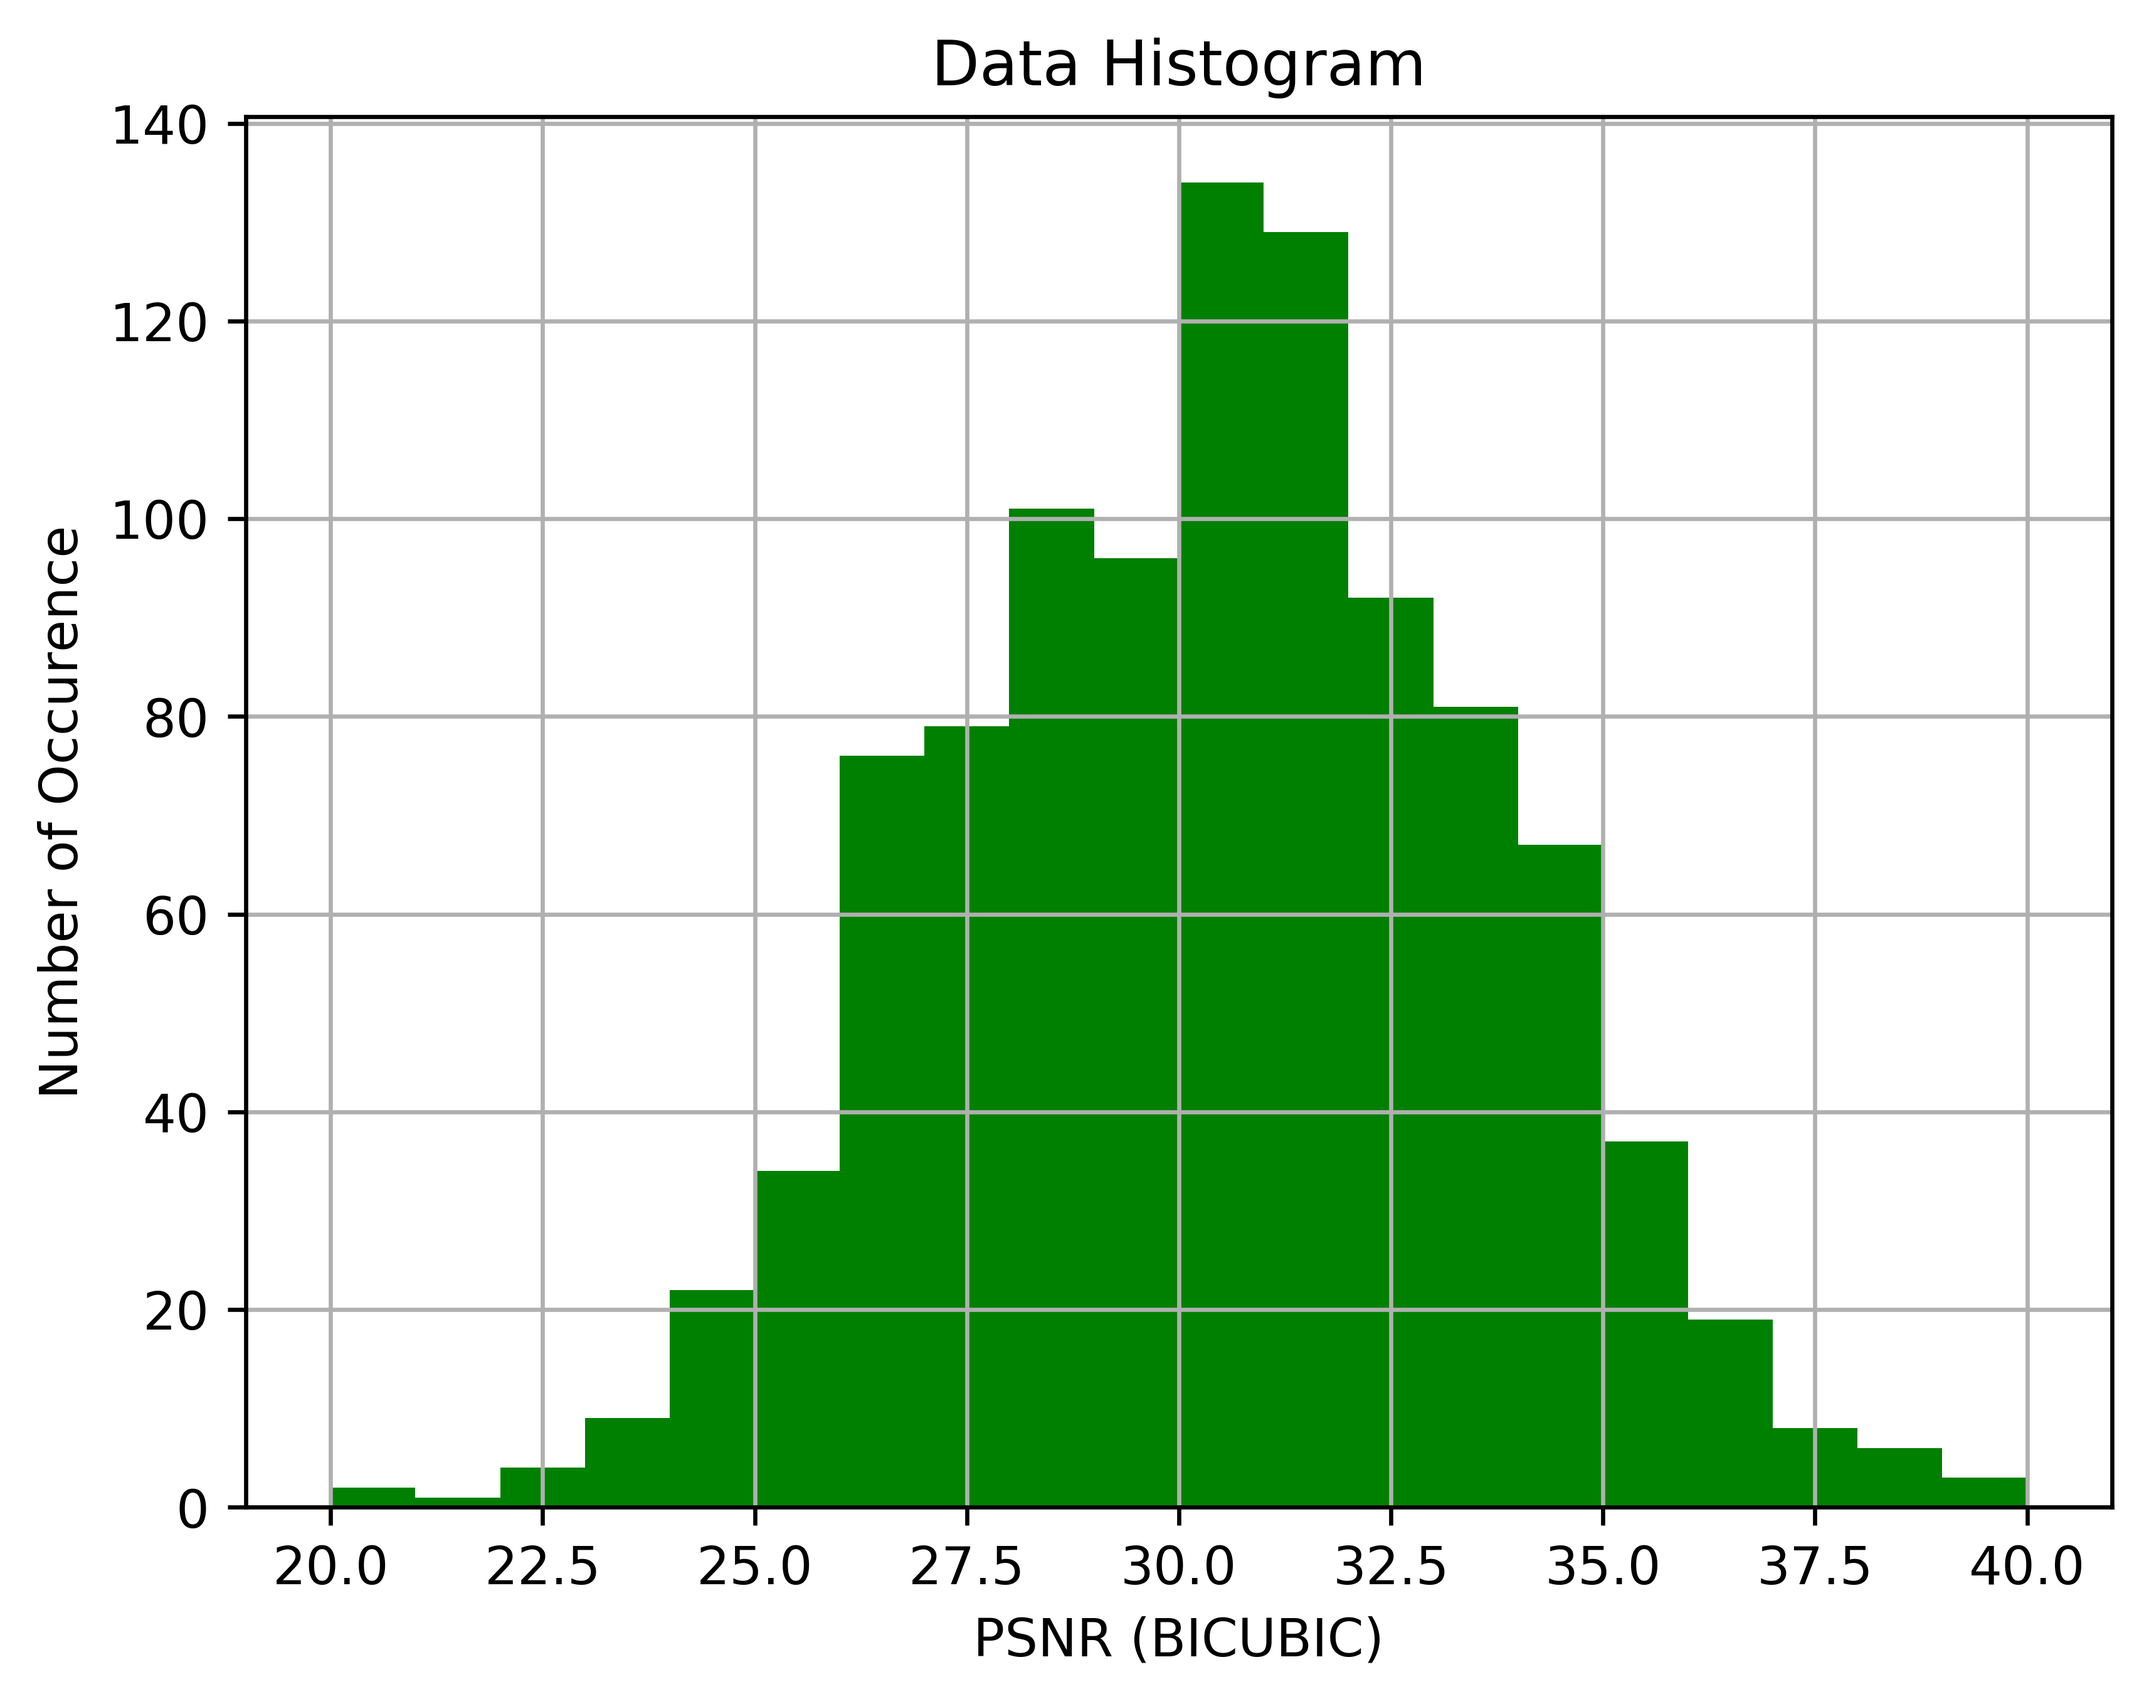
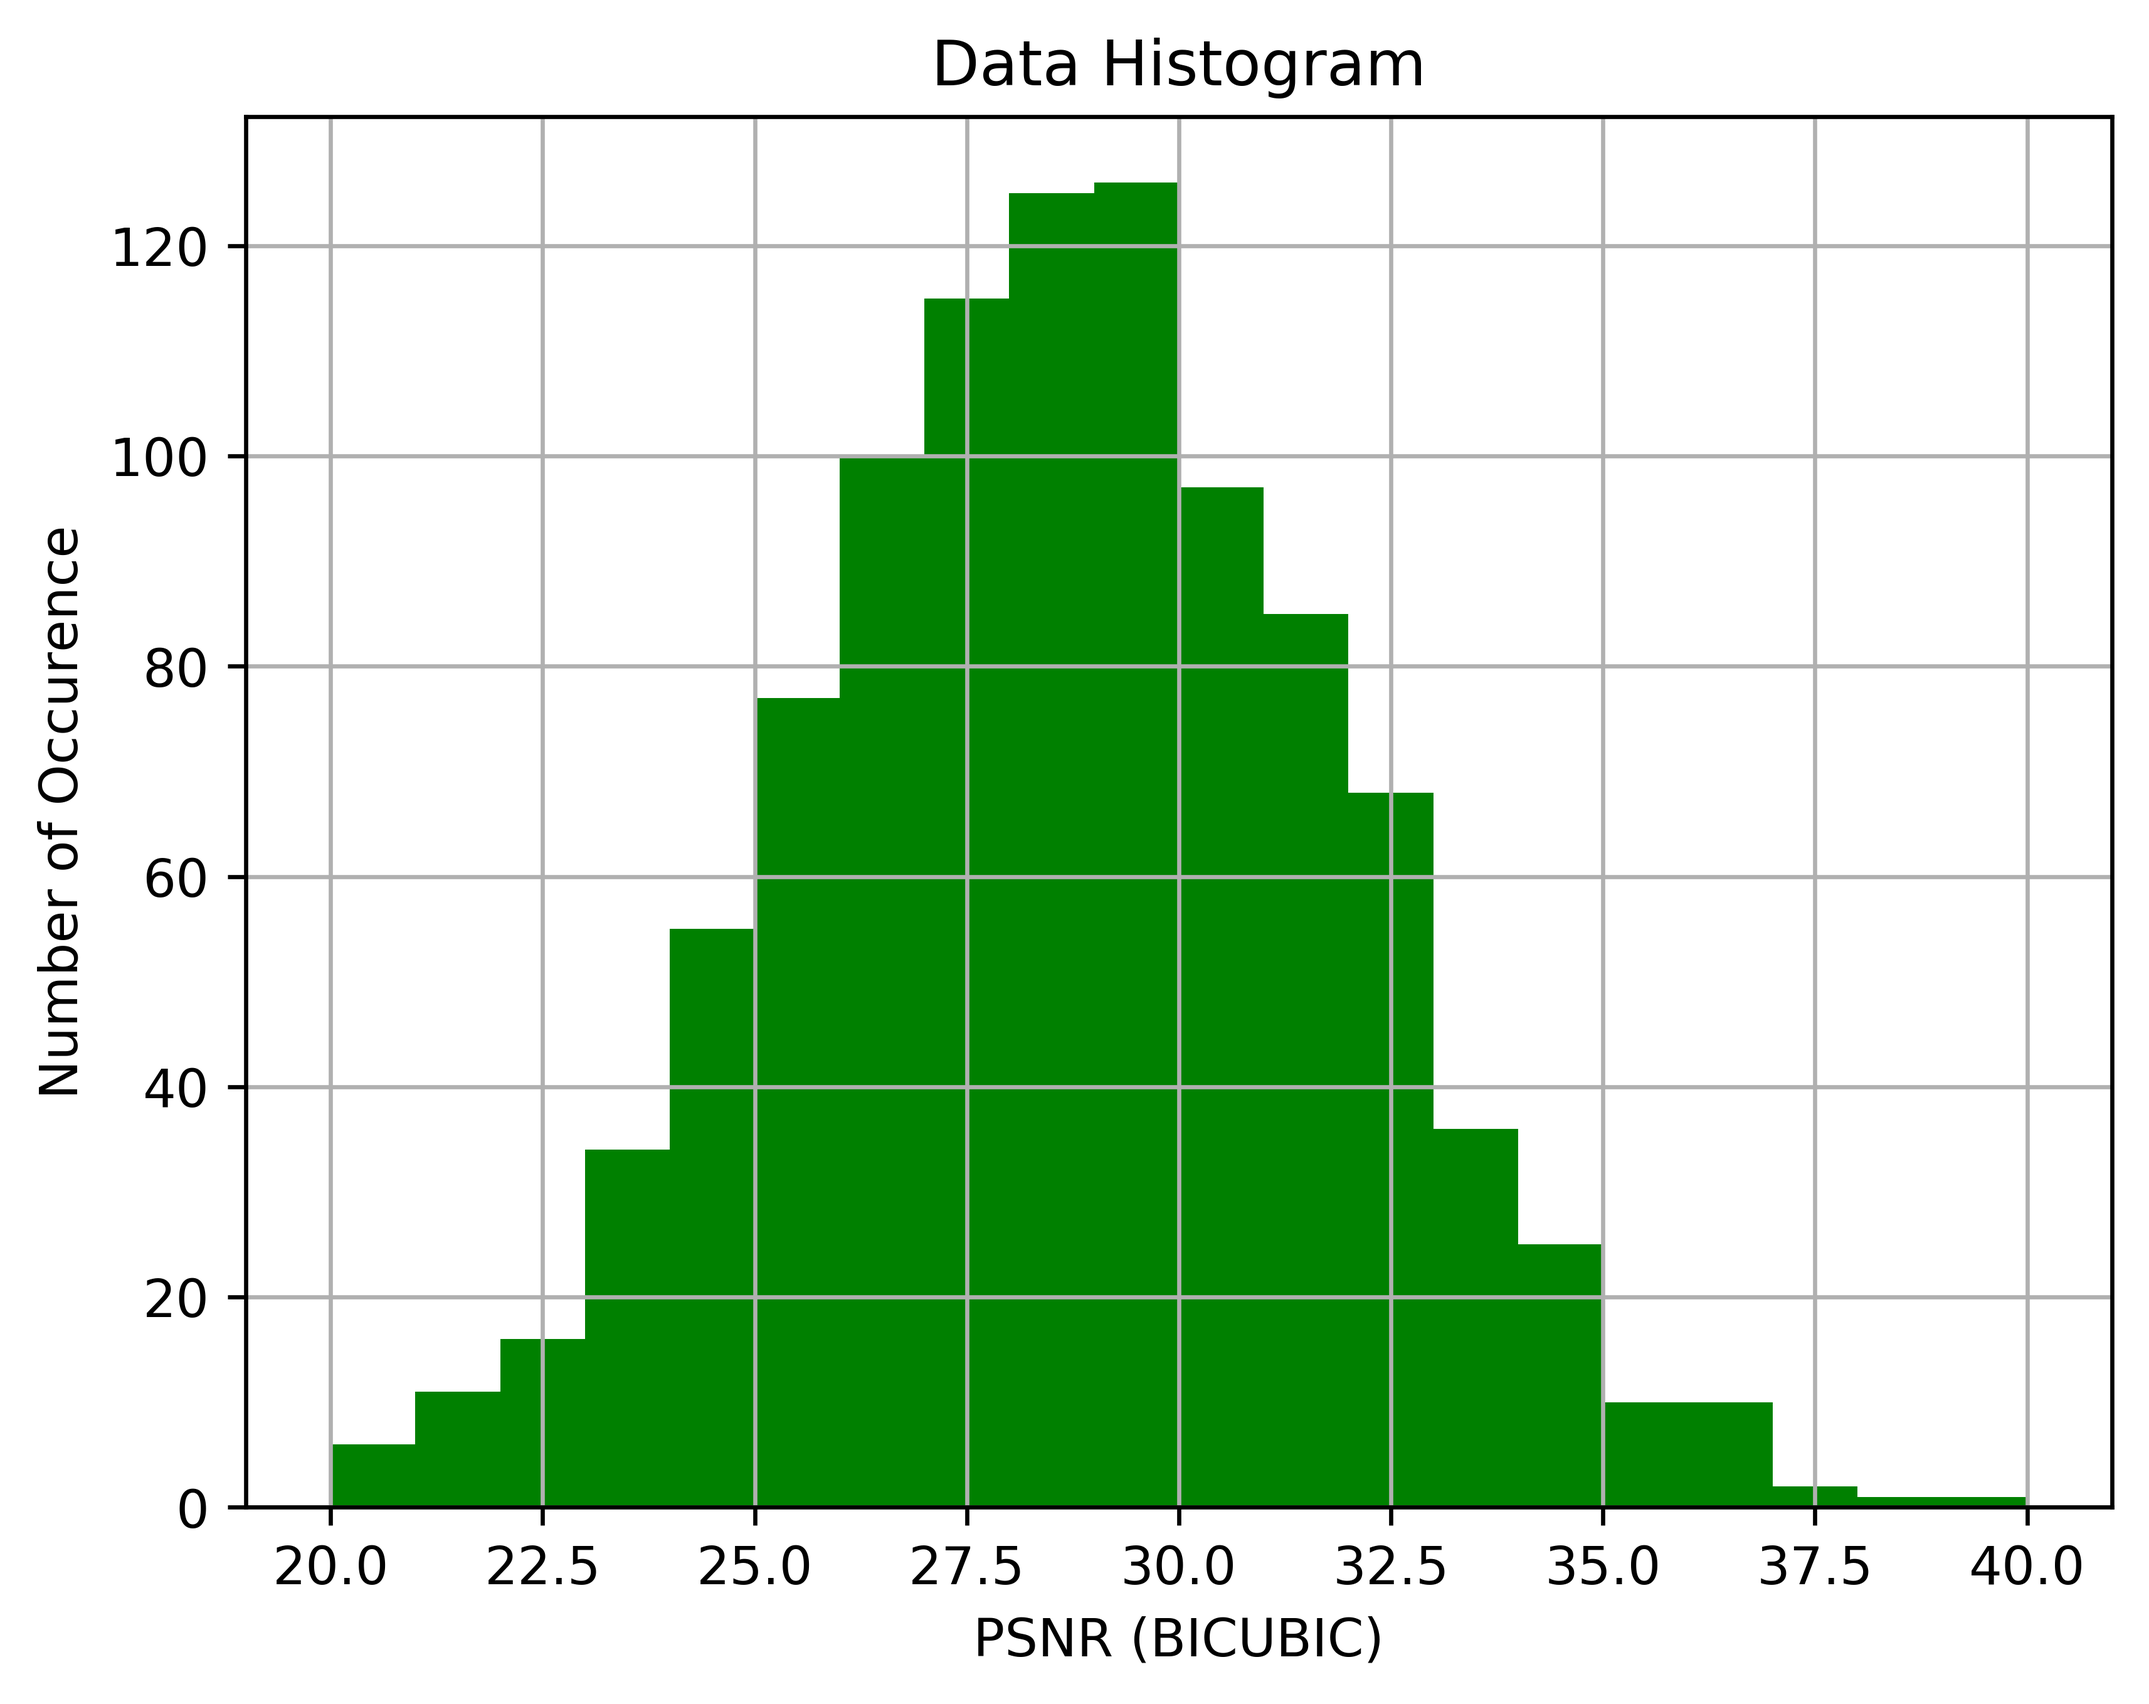
Analytics Report & GIF

diff --git a/source/SamplingDist.py b/source/SamplingDist.py
@@ -21,8 +21,8 @@ min_psnr, max_psnr = 20,40
 bicubic_bins, prob_update_bins = 20, 5
 
 prob_upper_limit = 0.003
-init_option = 'Uniform'
-# init_option = 'Bicubic'
+# init_option = 'Uniform'
+init_option = 'Bicubic'
 
 
 
@@ -134,8 +134,6 @@ plt.title('Assignment using {} Distribution'.format(init_option))
 plt.savefig( '{} Assignment.PNG'.format(init_option) , dpi=600 , bbox_inches='tight' , fromat='PNG' )
 # plt.show()
 plt.close()
-
-
 
 
 
